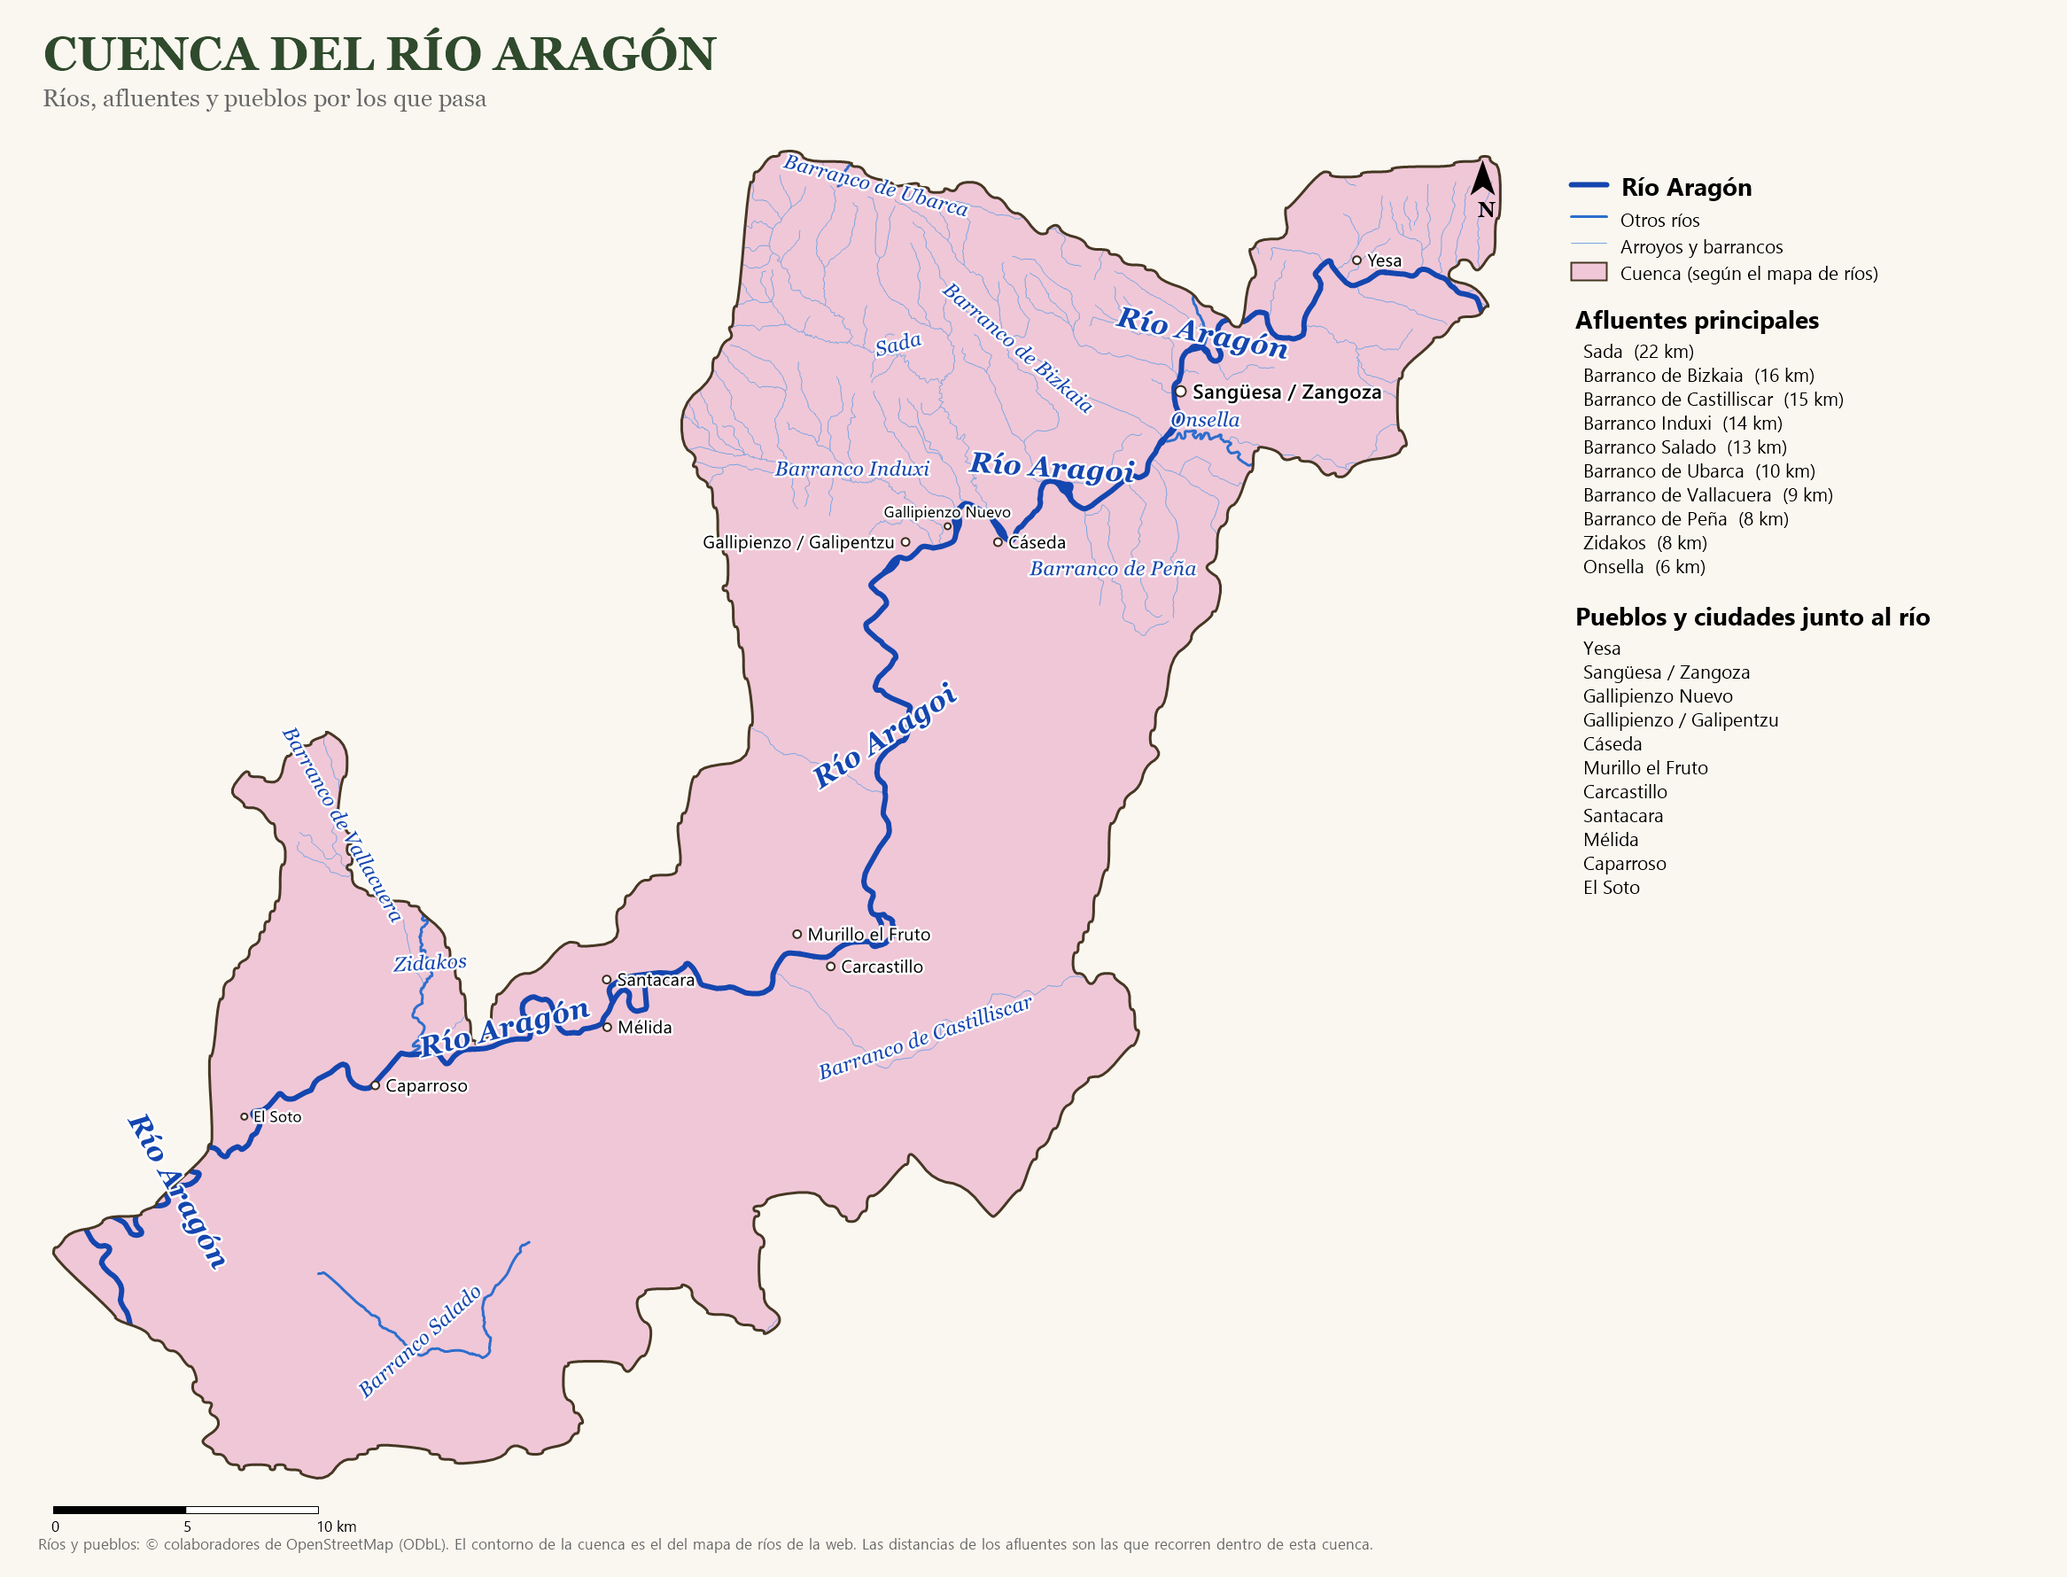
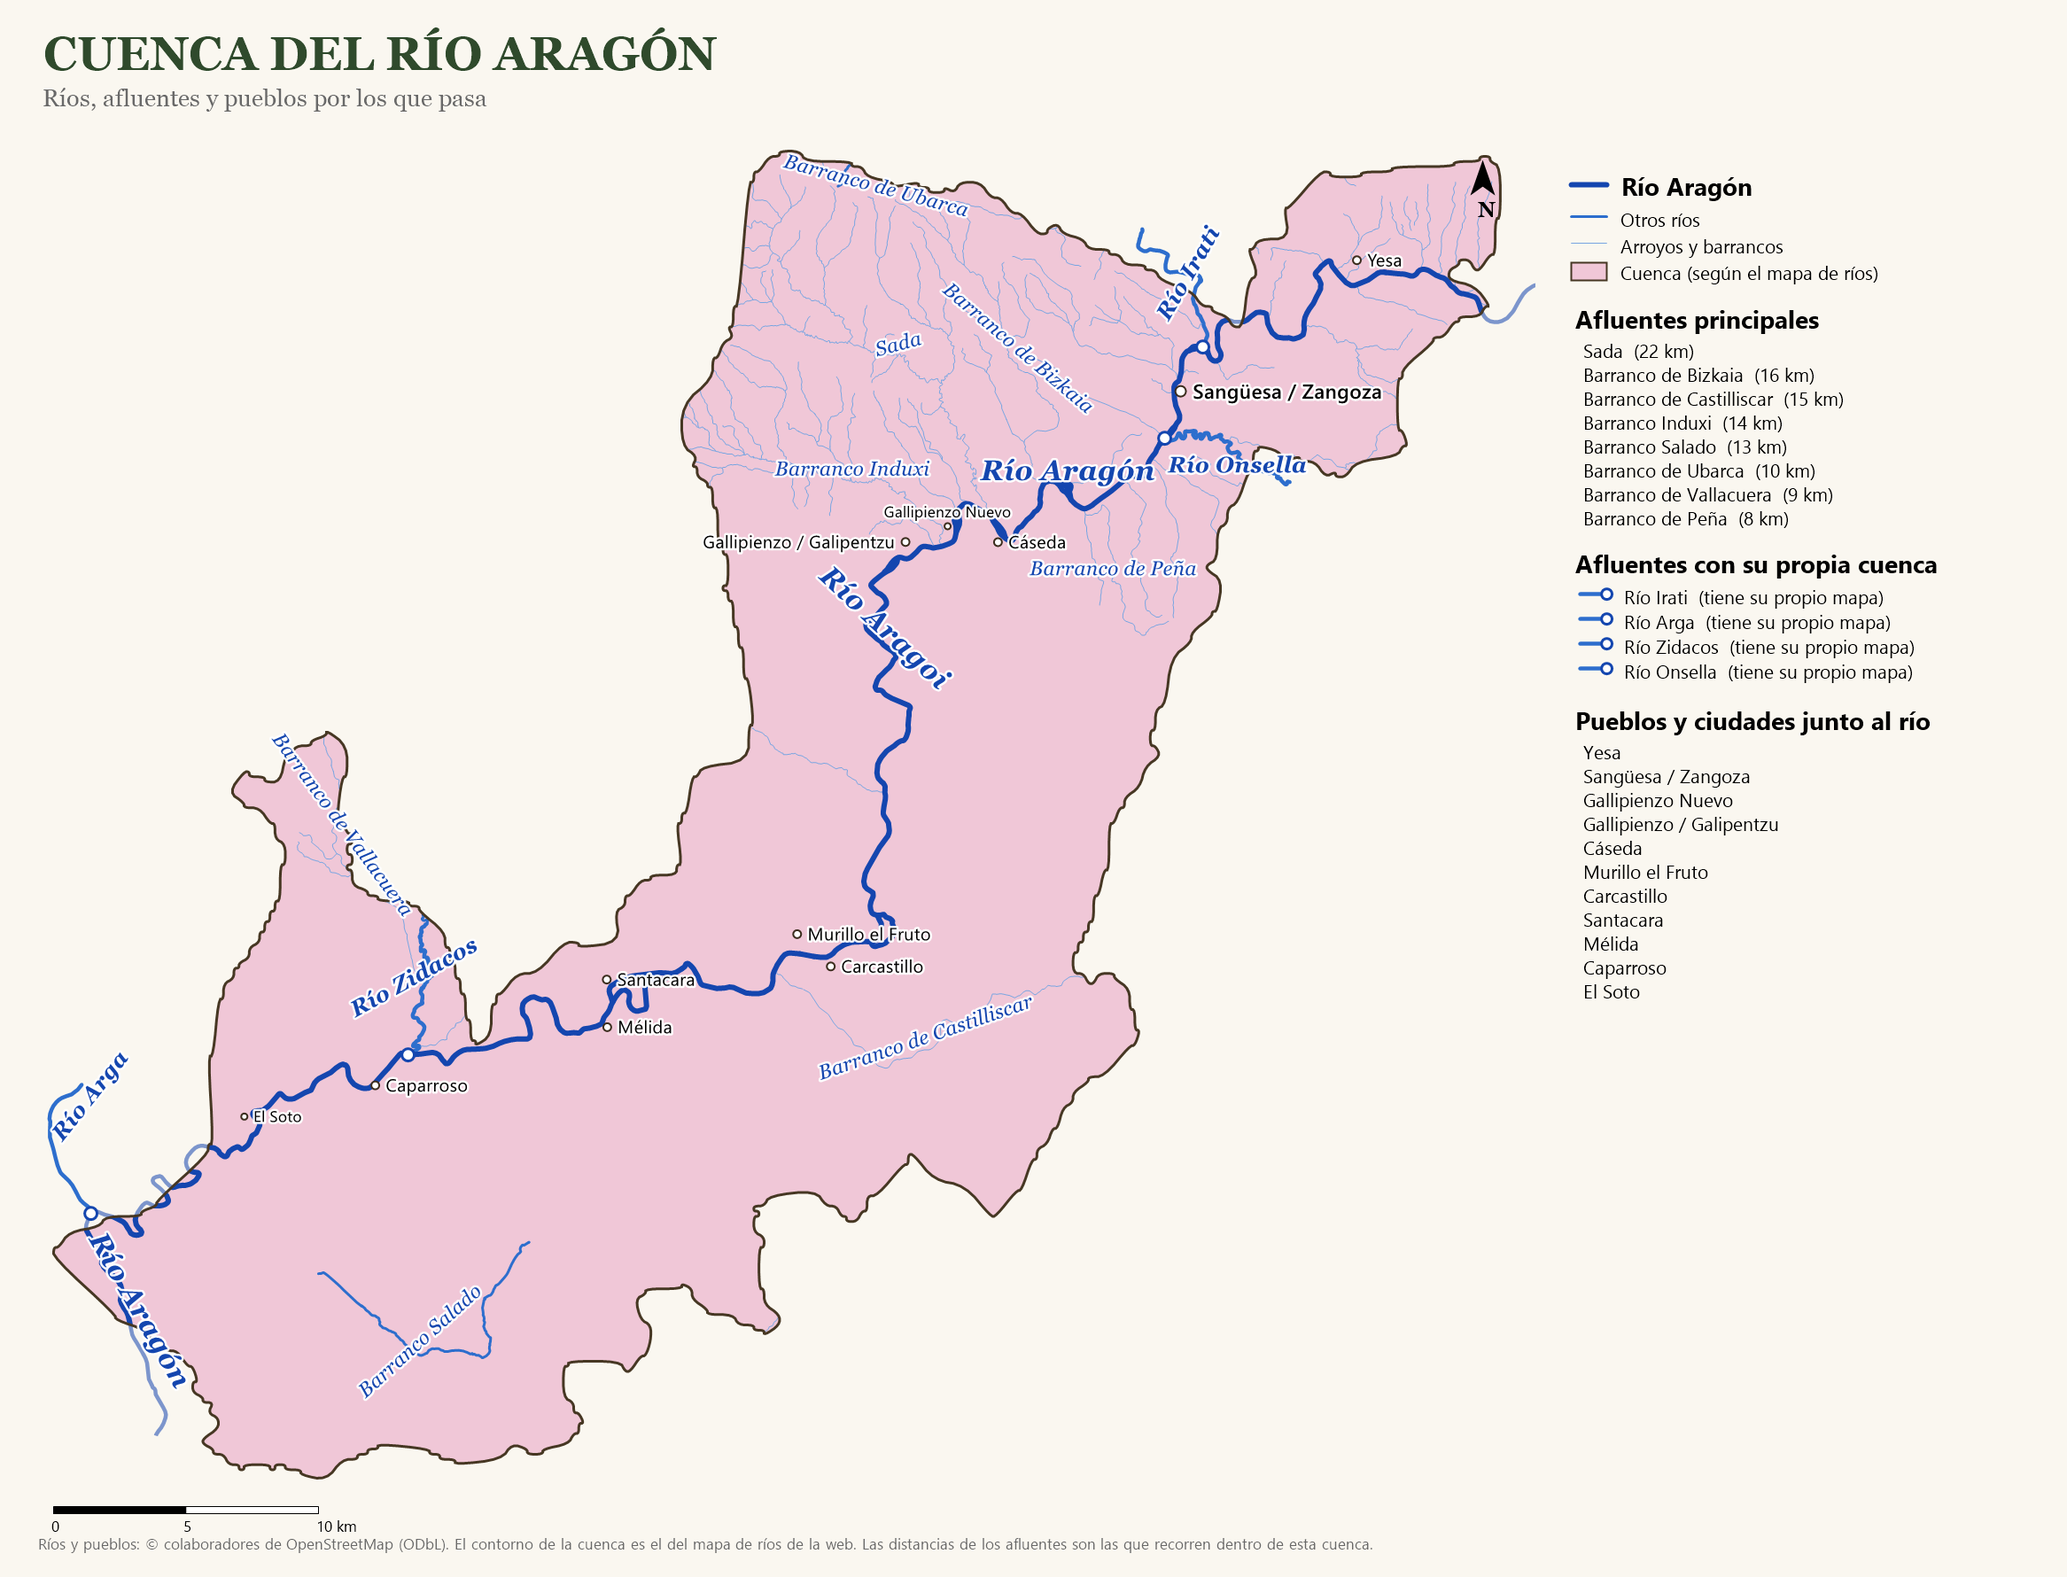
Retos en el valle, afluentes con cuenca propia y mapa de cuencas sin fondo

diff --git a/css/styles.css b/css/styles.css
@@ -50,6 +50,8 @@
   --color-desplegable-webs: #A9CFEA;
   --color-desplegable-tiempo: #FFE08A;
   --color-desplegable-reloj: #F4A3A3;
+  --color-desplegable-retos: #3A3330;       /* RETOS EN EL VALLE: oscuro, que imponga */
+  --color-desplegable-retos-letra: #F5EBDD;
   --color-desplegable-arboles: #B6D7A8;
   --ancho-maximo-mapa-comarcas: 40rem; /* mapa de comarcas en REGIONES, VALLES Y RÍOS */
   --opacidad-resalte-comarca: 0.45;    /* cuánto se ilumina la comarca bajo el ratón */
@@ -1080,6 +1082,33 @@ body {
 
 .desplegable--reloj {
   --color-tipo: var(--color-desplegable-reloj);
+}
+
+/* RETOS EN EL VALLE: parece un desplegable, pero es un enlace a su pantalla (#retos) */
+.desplegable--retos {
+  --color-tipo: var(--color-desplegable-retos);
+  --color-tipo-letra: var(--color-desplegable-retos-letra);
+  display: block;
+  text-decoration: none;
+}
+
+/* Flecha a la derecha en vez de la que gira: lleva a otra pantalla */
+.desplegable--retos .desplegable__titulo::before {
+  content: none;
+}
+
+.desplegable--retos .desplegable__titulo::after {
+  content: "→";
+  margin-left: auto;
+}
+
+.desplegable--retos .desplegable__titulo:hover {
+  filter: brightness(1.25);
+}
+
+.desplegable--retos:focus-visible {
+  outline: 3px solid var(--color-tierra);
+  outline-offset: 2px;
 }
 
 /* Reloj de Sanfermines: cifras tipo reloj LED, como el de la calle Estafeta */

diff --git a/index.html b/index.html
@@ -276,8 +276,26 @@
             </a>
           </div>
         </details>
+
+        <!-- Con el aspecto de un desplegable, pero lleva a su propia pantalla -->
+        <a class="desplegable desplegable--retos" href="#retos">
+          <span class="desplegable__titulo">
+            <img class="desplegable__icono" src="img/iconos/calavera.svg" alt="">
+            <span class="desplegable__texto">RETOS EN EL VALLE, SOLO PARA PROFESIONALES</span>
+            <img class="desplegable__icono" src="img/iconos/calavera.svg" alt="">
+          </span>
+        </a>
       </div>
 
+    </section>
+
+    <!-- ========== RETOS EN EL VALLE (se entra desde INFORMACIÓN DE INTERÉS; por ahora vacía) ========== -->
+    <section id="retos" class="pantalla" aria-labelledby="titulo-retos" hidden>
+      <div class="pantalla__barra">
+        <a class="boton-volver" href="#completadas" aria-label="Volver a información de interés">&larr;</a>
+        <h2 id="titulo-retos" class="pantalla__titulo">RETOS EN EL VALLE, SOLO PARA PROFESIONALES</h2>
+      </div>
+      <hr class="linea-titulo">
     </section>
 
     <!-- ========== GUÍAS DE CAMPO (antes dentro de INFORMACIÓN DE INTERÉS) ========== -->

diff --git a/CLAUDE.md b/CLAUDE.md
@@ -30,7 +30,7 @@ El proyecto avanza por fases. Solo se implementa lo que se pida en cada momento.
 - **Icono de la pestaña (favicon)**: rosa de los vientos azul propia, `img/favicon.svg` y su versión PNG de 32 px `img/favicon-32.png` (para navegadores que no aceptan SVG). No se usó la imagen de Dreamstime que propuso el propietario porque tenía marca de agua.
 
 ### Pantallas de categoría
-- Navegación por `#hash` (`#lugares`, `#montes`, `#bicicleta`, `#monumentos`, `#completadas`, `#guias`, `#regiones`, las 12 `#comarca-…` y las 25 `#rio-…`, `#lista`). Funciona con doble clic y con el botón "atrás" del móvil.
+- Navegación por `#hash` (`#lugares`, `#montes`, `#bicicleta`, `#monumentos`, `#completadas`, `#retos`, `#guias`, `#regiones`, las 12 `#comarca-…` y las 25 `#rio-…`, `#lista`). Funciona con doble clic y con el botón "atrás" del móvil.
 - Las excursiones completadas ya no tienen sección propia: están en su categoría como una más (ver "Excursiones completadas").
 - Todas tienen una flecha (←) para volver a la pantalla principal.
 - Galería de imágenes con borde negro y proporción 4:3 encima de la lista. Excepción: en Monumentos, el cartel (`monumentos-1-mapa.png`) va completo, sin recortar, debajo de la lista.
@@ -74,6 +74,7 @@ Todas las excursiones de las 4 categorías tienen **casilla de completada** (ver
      - **EL RELOJ DE SANFERMINES** (rosa rojizo `#F4A3A3`, icono `reloj-sanfermin.svg`): cuenta atrás en directo (días, horas, minutos, segundos) hasta el **chupinazo, 6 de julio a las 12:00** hora de Pamplona (10:00 UTC, en julio siempre es horario de verano), con aspecto de reloj LED rojo como el de la calle Estafeta. Del chupinazo al final del 14 de julio muestra "¡Estamos en Sanfermines! ¡Gora San Fermín!"; después cuenta hasta el año siguiente. Debajo, enlace a la página del reloj en sanfermin.com.
        - El reloj de sanfermin.com es un reloj físico; su web no ofrece datos ni widget, así que la cuenta se calcula en el navegador (`estadoSanfermines`, `actualizarRelojSanfermines`, cada segundo).
      - Cada enlace es un recuadro `.enlace-web` con título y una línea de descripción, y se abre en otra pestaña.
+  6. Debajo de los tres desplegables, **RETOS EN EL VALLE, SOLO PARA PROFESIONALES** (pedido por el propietario): tiene el aspecto de un desplegable más (`a.desplegable.desplegable--retos`, fondo oscuro `--color-desplegable-retos` #3A3330 y letra clara), con una **calavera** a cada lado (`img/iconos/calavera.svg`, calavera con tibias cruzadas dibujada para la web, no un emoticono) y una flecha → a la derecha en vez de la que gira. No se abre: lleva a su propia pantalla, **`#retos`** (flecha de volver a `#completadas`, el mismo título y la línea bajo el título), **de momento vacía**; el contenido lo irá añadiendo el propietario.
 - Los textos del propietario llevan pequeñas correcciones ortográficas aceptadas ("a la web", "excursiones", "¡suerte y disfrutad…!", "Wikiloc").
 
 ### GUÍAS DE CAMPO (`#guias`)
@@ -146,7 +147,7 @@ Todas las excursiones de las 4 categorías tienen **casilla de completada** (ver
   - En el móvil el mapa se ve pequeño (unos 340 px de ancho): para leer los nombres hay que ampliar con los dedos.
 - Cómo se sabe qué comarca se pulsa: `MAPA_COMARCAS` en `app.js` divide la imagen en cuadros de 5 × 5 px y guarda qué comarca hay en cada uno (una letra de `COMARCAS`, comprimido por filas: "12a" = 12 cuadros de la comarca a). Se calculó a partir de los colores del mapa (el texto blanco y negro se asignó a la comarca de alrededor y se quitaron las manchas sueltas; los dos trocitos sueltos de la Comarca de Sangüesa, al este, no se pueden pulsar). Si se cambia la imagen por otra de distinto tamaño o dibujo, hay que recalcularlo. Funciona con doble clic (`file://`), porque no lee la imagen en el navegador.
 
-- **Mapa de ríos** (pedido por el propietario), debajo del de comarcas, tras una línea (`hr.linea-titulo`) y el título **CUENCAS DE LOS RÍOS** (`h3.info-uso__titulo.regiones__titulo`, centrado): `img/mapa-rios.png` (800 × 850, imagen del propietario sin pie), con el mismo funcionamiento que el de comarcas (mismas clases `mapa-comarcas…`, lienzo `#mapa-rios-resalte`, rótulo `#mapa-rios-nombre`, "Pulsa la cuenca de un río."). Al pulsar una cuenca se va a la pantalla de su río.
+- **Mapa de ríos** (pedido por el propietario), debajo del de comarcas, tras una línea (`hr.linea-titulo`) y el título **CUENCAS DE LOS RÍOS** (`h3.info-uso__titulo.regiones__titulo`, centrado): `img/mapa-rios.png` (800 × 850, imagen del propietario sin pie; se le quitó el recuadro blanco, a petición del propietario: fuera de la silueta de Navarra, enclave de Petilla incluido, es transparente; se conservan los nombres de río que asoman por fuera, como Leizaran, Araxes, Urumea u Onsella, y se quitaron los trozos de río de fuera de Navarra), con el mismo funcionamiento que el de comarcas (mismas clases `mapa-comarcas…`, lienzo `#mapa-rios-resalte`, rótulo `#mapa-rios-nombre`, "Pulsa la cuenca de un río."). Al pulsar una cuenca se va a la pantalla de su río.
   - **25 cuencas**: Bidasoa, Urumea, Leizaran, Araxes, Larraun, Ulzama, Araquil, Erro, Urrobi, Irati, Areta, Salazar, Esca, Urederra, Ega, Linares, Odrón, Ebro, Arga, Elorz, Zidacos, Aragón, Onsella, Alhama y Queiles (con los nombres que trae el mapa). El Ebro tiene varios trozos sueltos y todos llevan a su pantalla. Las zonas sin nombre del mapa (las grises y la marrón del extremo norte, cuencas que salen hacia Francia) no se pueden pulsar.
   - Cada río tiene su pantalla `#rio-<id>` (`rio-arga`, `rio-aragon`, `rio-odron`…), con la flecha de volver a `#regiones`, el título **RÍO …** en mayúsculas y la línea. Debajo, el **mapa de la cuenca** (ver abajo); lo tienen los 25 ríos.
   - **Mapas de cada cuenca** (pedidos por el propietario; mismas clases que los de las comarcas, `figure.mapa-comarca` > `img.mapa-comarca__imagen`): `img/rios/<id>.png`. Cada uno lleva el título (CUENCA DEL RÍO …), la cuenca en su color, el río principal en azul fuerte, los demás ríos más finos y los arroyos en azul claro, los nombres de los afluentes principales y de los pueblos, escala y norte. A la derecha, la leyenda con los **afluentes principales** (km que recorren dentro de la cuenca) y los **pueblos y ciudades junto al río** de norte a sur. Pie: «Ríos y pueblos: © colaboradores de OpenStreetMap (ODbL)…» (lo exige la licencia; no quitarlo).
@@ -155,7 +156,7 @@ Todas las excursiones de las 4 categorías tienen **casilla de completada** (ver
     - Afluentes: los ríos de 3 km o más dentro de la cuenca y los arroyos de 7 km o más; en las cuencas pequeñas (Leizaran, Araxes, Onsella…), si no llegan a dos, los 4 arroyos con nombre más largos. La escala es de 10, 4 o 2 km según el tamaño de la cuenca.
     - Algunas cuencas tienen varios trozos, como en el mapa de ríos (Ebro, Ega, Esca, Linares), y salen todos. Tudela no sale en la del Ebro porque en el mapa de ríos queda fuera de la zona del Ebro. El Onsella no pasa por ningún pueblo dentro de su cuenca.
     - El río principal se busca por su nombre en OpenStreetMap, que a veces es el vasco (Leitzaran, Arakil, Ezka, Zidakos, Aragoi): `cuencas.txt` lleva por cuenca el patrón del nombre (con `;` en vez de `|`) y el nombre de la leyenda. El Bidasoa incluye el tramo alto, llamado Baztan.
-    - Los ríos que en el mapa de ríos tienen cuenca propia (Ulzama, Elorz, Araquil y Larraun, en el caso del Arga) no salen como afluentes, aunque en la realidad lo sean.
+    - **Afluentes con cuenca propia** (pedido por el propietario para el Arga, el Aragón, el Ega y el Ebro): salen aparte, con su último tramo (5 km hasta la desembocadura, también por fuera de la cuenca), un círculo blanco con borde azul donde desembocan, su nombre y un apartado de la leyenda, «Afluentes con su propia cuenca», con «(tiene su propio mapa)». Arga: Ulzama, Araquil y Elorz; Aragón: Irati, Arga, Zidacos y Onsella; Ega: Urederra; Ebro: Ega, Aragón, Linares, Alhama y Queiles (el Odrón no desemboca en el Ebro según OpenStreetMap). En esos cuatro mapas el río principal también se dibuja, más suave, por fuera de la cuenca, para que se vea por dónde sigue (en el Ebro, por Tudela). Se configuran en el 7.º campo de `cuencas.txt` (`nombre en OSM[+otro nombre]=nombre visible`, separados por `;`). En las demás cuencas, los ríos con cuenca propia no salen como afluentes.
     - Se dibujan con scripts de la carpeta temporal (`comarcas-mapas/`: `cuencas.txt`, `cuencas-textos.txt`, `<id>-contorno.txt`, `<id>-osm.txt`, `<id>-aldeas.txt` (solo el Arga; en las demás, las aldeas van en `<id>-osm.txt`) y `dibujar-cuenca.ps1`; `insertar-rio.pl` los mete en su pantalla). Si se pierden, habría que repetir la descarga y el dibujo.
   - `MAPA_RIOS` se calculó separando las zonas de color por las líneas de frontera (los ríos azules se taparon antes con el color de alrededor, para que no partieran las cuencas); el Areta tiene un color casi igual al del Irati y se separó por su borde.
 
@@ -180,7 +181,7 @@ Todas las excursiones de las 4 categorías tienen **casilla de completada** (ver
 - Aspecto de foto antigua en blanco y negro hecho con CSS (`.foto-antigua`: filtro gris/sepia, viñeta, marco de papel viejo, letra manuscrita). La imagen original no se modifica (solo se recortó el borde de la captura).
 
 ### Iconos
-- Las categorías y los datos de las fichas usan **iconos SVG propios** (`img/iconos/*.svg`, 65 archivos; `compartir.svg` es el del botón COMPARTIR; `globo.svg`, `tiempo.svg`, `reloj-sanfermin.svg`, `huella.svg`, `pajaro.svg`, `rana.svg`, `lagarto.svg` y `pez.svg` son de INFORMACIÓN DE INTERÉS y del enlace de Monumentos), dibujados con colores naturales y estilo ilustrado sobrio. **No se usan emoticonos** (se sustituyeron para dar un aspecto más profesional). La estrella ★ de la popularidad es un carácter tipográfico y se mantiene. Excepción: el texto que se envía con COMPARTIR sí lleva emojis (lo pidió el propietario; en WhatsApp se ven bien).
+- Las categorías y los datos de las fichas usan **iconos SVG propios** (`img/iconos/*.svg`, 66 archivos; `calavera.svg` es el del botón de RETOS EN EL VALLE; `compartir.svg` es el del botón COMPARTIR; `globo.svg`, `tiempo.svg`, `reloj-sanfermin.svg`, `huella.svg`, `pajaro.svg`, `rana.svg`, `lagarto.svg` y `pez.svg` son de INFORMACIÓN DE INTERÉS y del enlace de Monumentos), dibujados con colores naturales y estilo ilustrado sobrio. **No se usan emoticonos** (se sustituyeron para dar un aspecto más profesional). La estrella ★ de la popularidad es un carácter tipográfico y se mantiene. Excepción: el texto que se envía con COMPARTIR sí lleva emojis (lo pidió el propietario; en WhatsApp se ven bien).
 - Los árboles cuya silueta no se distingue bien (arce, avellano, nogal, morera, peral, espino, acebo) llevan al lado su hoja, fruto o flor.
 - Tamaños en variables de `:root`: `--icono-grupo`, `--icono-nombre`, `--icono-dato`, `--icono-mapa`.
 
@@ -240,7 +241,7 @@ Todas las excursiones de las 4 categorías tienen **casilla de completada** (ver
 │   ├── excel.js                           # Vacío (reservado; los datos van por datos.js)
 │   └── app.js                             # Navegación, listas, desplegables, fichas, casillas y mapas
 └── img/
-    ├── iconos/*.svg                       # Iconos de categorías, fichas y desplegables (65)
+    ├── iconos/*.svg                       # Iconos de categorías, fichas y desplegables (66)
     ├── favicon.svg, favicon-32.png        # Icono de la pestaña (rosa de los vientos)
     ├── portada-compartir.png              # Imagen de la vista previa al compartir el enlace (1200 × 630)
     ├── cara-enfadada.png                  # Cara del aviso del contador (cara-enfadada.svg: versión antigua sin usar, fuera de git)
